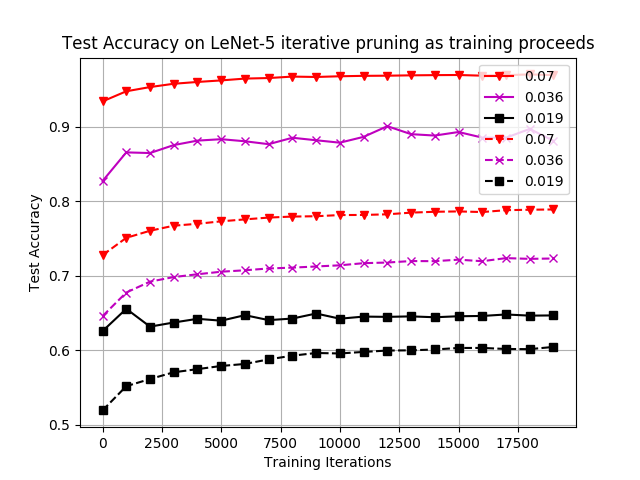
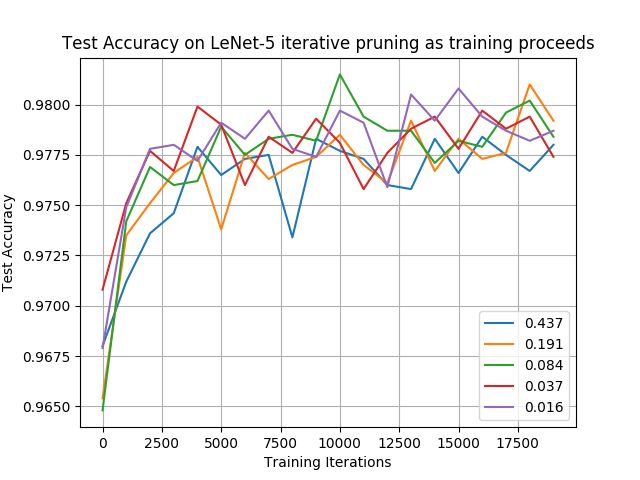
big test

diff --git a/src/fc_experiment.py b/src/fc_experiment.py
@@ -47,19 +47,19 @@ def iterative_pruning_experiment():
         print("TRIAL " + str(k+1) + "/" + str(trials))
         og_network = FC_NETWORK()
 
-        #S = [0.0, 1.0, 1.0, 0.5] # Base case
-        #c = 1-PRUNING_PERCENTAGES[1]**(1/iterations)
-        mask = oneshot_pruning(og_network,LENET_PRUNE_FRACTIONS[iterations])
+        S = [0.0, 1.0, 1.0, 0.5] # Base case
+        c = 1-PRUNING_PERCENTAGES[1]**(1/iterations)
+        mask = oneshot_pruning(og_network,S)
         acc_history = og_network.fit_batch(x_train, y_train, mask, og_network.weights_init, SETTINGS, x_test, y_test)
         histories[iterations,:] += np.asarray(acc_history)
 
         for i in range(0,iterations):
-            #for j,s in enumerate(S):
-                #S[j] = S[j] - S[j]*c
+            for j,s in enumerate(S):
+                S[j] = S[j] - S[j]*c
             
-            #print("Prune iteration: " + str(i+1) + ", S: " + str(S))
+            print("Prune iteration: " + str(i+1) + ", S: " + str(S))
             print("Creating the pruned network")
-            mask = oneshot_pruning(og_network, LENET_PRUNE_FRACTIONS[i])
+            mask = oneshot_pruning(og_network, S)
             pruned_network = FC_NETWORK()
             acc_history = pruned_network.fit_batch(x_train, y_train, mask, og_network.weights_init, SETTINGS, x_test, y_test)
             histories[i,:] += np.asarray(acc_history)
@@ -70,7 +70,7 @@ def iterative_pruning_experiment():
             
     histories = histories/trials
     print(histories)
-    np.savez("data/histories_rand.npz", histories=histories)
+    np.savez("data/histories_50_iter.npz", histories=histories)
 
             
     #tot_acc=float(tot_acc/trials)

diff --git a/src/plots.py b/src/plots.py
@@ -5,8 +5,8 @@ from constants import SETTINGS, PRUNING_PERCENTAGES
 def plot_lenet_mnist():
     #histories_reinit = np.load("data/histories_rand.npz", allow_pickle=True)['histories']
     histories = np.load("data/histories_50_iter.npz", allow_pickle=True)['histories']
-    iterations = len(histories)-1
-    iterations = 5
+    iterations = len(histories)
+    # iterations = 50
     S = [0.0, 1.0, 1.0, 0.5]
     c = 1-PRUNING_PERCENTAGES[1]**(1/iterations)
     # percentages = PRUNING_PERCENTAGES
@@ -39,11 +39,14 @@ def plot_lenet_mnist():
     s = S[1]
     percentages = np.zeros(iterations)
     for i in range(0,iterations):
-        s = np.around(s - s*c, decimals=3)
+        s = np.around(s - s*c, decimals=10)
         percentages[i] = s
-    print(histories.shape)
+    print(len(histories))
     print(len(percentages))	
-    for i in range(0, iterations):
+    print(iterations)
+    print(percentages)
+    print(range(0,iterations,10))
+    for i in [0,10,20,30,40,49]:
         plt.plot(range(0,len(histories[i,:])*1000,1000), histories[i,:], label=percentages[i])
     
 
@@ -60,7 +63,7 @@ def plot_lenet_mnist():
     plt.title("Test Accuracy on LeNet-5 iterative pruning as training proceeds")
     plt.xlabel("Training Iterations")
     plt.ylabel("Test Accuracy")
-    plt.savefig('test.png')
+    plt.savefig('BIG_TEST2.png')
     plt.show()
 
 plot_lenet_mnist()

diff --git a/src/fc_model.py b/src/fc_model.py
@@ -30,7 +30,7 @@ class FC_NETWORK:
             self.model.add(keras.layers.Flatten(input_shape=(28, 28)))
             for layer in LAYERS:
                 (units, activation) = LAYERS[layer]
-                self.model.add(keras.layers.Dense(units, activation=activation, kernel_initializer=tf.keras.initializers.glorot_normal(seed=None)))
+                self.model.add(keras.layers.Dense(units, activation=activation, kernel_initializer=tf.keras.initializers.glorot_normal(seed=1)))
         
         
             self.model.compile(optimizer=OPTIMIZER_FC,

diff --git a/src/constants.py b/src/constants.py
@@ -15,11 +15,11 @@ PRUNING_PERCENTAGES = [0.0, 0.016, 0.016, 0.008]
 
 SETTINGS = {
     'split' : 0.0,
-    'use_random_init' : True,
+    'use_random_init' : False,
     'n_epochs' : 20,
     'eval_test' : True,
-    'trials' : 5,
-    'prune_iterations' : 5
+    'trials' : 1,
+    'prune_iterations' : 50
 }
 
 LENET_PRUNE_FRACTIONS = [
